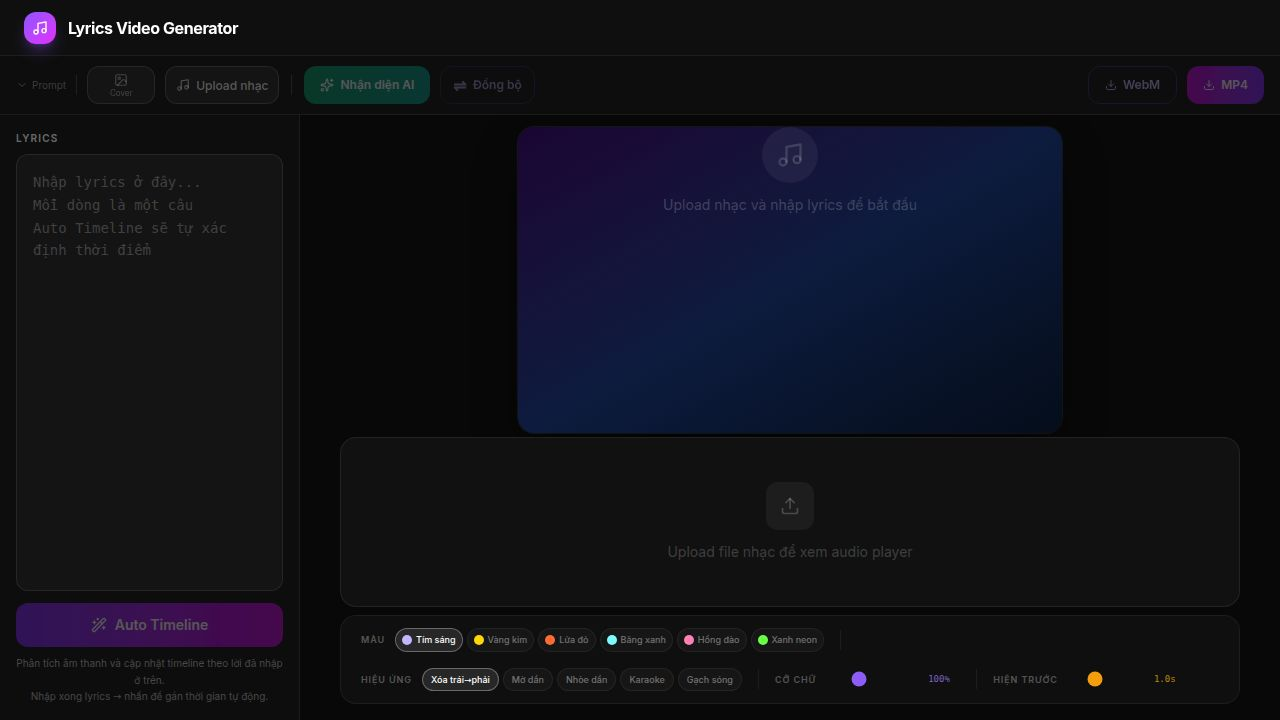
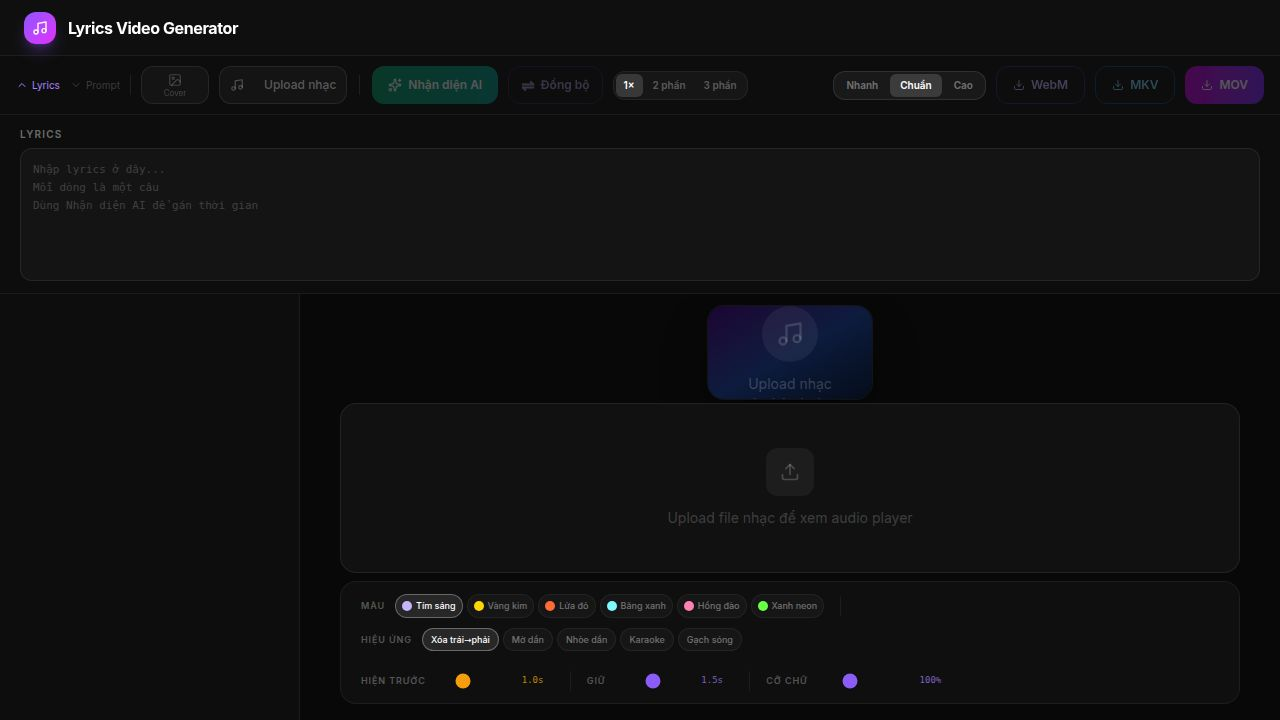
Add ability to save and restore previous versions of the lyrics timeline
Implement a snapshot feature allowing users to save and restore previous versions of the lyrics timeline, storing up to 30 saves in localStorage.

Replit-Commit-Author: Agent
Replit-Commit-Session-Id: 49e4e29f-ddcb-4f3a-98da-e55439d37185
Replit-Commit-Checkpoint-Type: full_checkpoint
Replit-Commit-Event-Id: 996c4b03-00f1-49d7-b436-35f3cccc3191
Replit-Commit-Screenshot-Url: https://storage.googleapis.com/screenshot-production-us-central1/03287a2a-bcca-4c87-b1e8-3f0f71bc8445/49e4e29f-ddcb-4f3a-98da-e55439d37185/I71An1v
Replit-Helium-Checkpoint-Created: true

diff --git a/artifacts/lyrics-video/src/App.tsx b/artifacts/lyrics-video/src/App.tsx
@@ -10,6 +10,14 @@ interface LyricLine {
   isMarker?: boolean;
 }
 
+interface SaveEntry {
+  id: string;
+  label: string;
+  ts: number;
+  lines: LyricLine[];
+  text: string;
+}
+
 function formatTime(s: number) {
   const m = Math.floor(s / 60);
   const sec = Math.floor(s % 60);
@@ -579,6 +587,12 @@ export default function App() {
   const [gapShiftInputs, setGapShiftInputs] = useState<Record<number, string>>({});
   const [shiftFromIdx, setShiftFromIdx] = useState<number | null>(null);
   const [shiftFromInput, setShiftFromInput] = useState("");
+  const [saves, setSaves] = useState<SaveEntry[]>(() => {
+    try { return JSON.parse(localStorage.getItem("lv_saves") ?? "[]") as SaveEntry[]; } catch { return []; }
+  });
+  const [showSaves, setShowSaves] = useState(false);
+  const [editingSaveId, setEditingSaveId] = useState<string | null>(null);
+  const [editingSaveLabel, setEditingSaveLabel] = useState("");
   const [customPrompt, setCustomPrompt] = useState<string>(() =>
     localStorage.getItem("lv_customPrompt") ?? DEFAULT_PROMPT
   );
@@ -1156,6 +1170,51 @@ export default function App() {
     ice:    { fill: "#7DF9FF", glow: "rgba(100,240,255,0.90)" },
     rose:   { fill: "#FF80B5", glow: "rgba(255,80,150,0.90)" },
     green:  { fill: "#69FF47", glow: "rgba(80,255,50,0.90)"  },
+  };
+
+  const persistSaves = (next: SaveEntry[]) => {
+    try { localStorage.setItem("lv_saves", JSON.stringify(next)); } catch { /* quota */ }
+  };
+
+  const handleSaveSnapshot = () => {
+    const now = new Date();
+    const pad = (n: number) => String(n).padStart(2, "0");
+    const label = `${pad(now.getHours())}:${pad(now.getMinutes())} ${pad(now.getDate())}/${pad(now.getMonth() + 1)}`;
+    const entry: SaveEntry = {
+      id: `${Date.now()}-${Math.random().toString(36).slice(2, 7)}`,
+      label,
+      ts: Date.now(),
+      lines: JSON.parse(JSON.stringify(lyricsLines)) as LyricLine[],
+      text: lyricsText,
+    };
+    setSaves((prev) => {
+      const next = [entry, ...prev].slice(0, 30);
+      persistSaves(next);
+      return next;
+    });
+    setShowSaves(true);
+  };
+
+  const handleRestoreSave = (entry: SaveEntry) => {
+    setLyricsLines(entry.lines);
+    setLyricsText(entry.text);
+  };
+
+  const handleDeleteSave = (id: string) => {
+    setSaves((prev) => {
+      const next = prev.filter((s) => s.id !== id);
+      persistSaves(next);
+      return next;
+    });
+  };
+
+  const handleRenameSave = (id: string, newLabel: string) => {
+    setSaves((prev) => {
+      const next = prev.map((s) => s.id === id ? { ...s, label: newLabel } : s);
+      persistSaves(next);
+      return next;
+    });
+    setEditingSaveId(null);
   };
 
   const handleExportTimeline = () => {
@@ -1975,13 +2034,32 @@ export default function App() {
                     Timeline — {lyricsLines.filter(l => !l.isMarker).length} dòng
                   </p>
                   <div className="flex items-center gap-1">
+                    {/* Save snapshot */}
+                    <button
+                      onClick={handleSaveSnapshot}
+                      className="flex items-center gap-1 text-[10px] text-white/30 hover:text-amber-400 transition-colors px-2 py-1 rounded-lg hover:bg-white/[0.04]"
+                      title="Lưu bản snapshot hiện tại để khôi phục sau"
+                    >
+                      <span className="text-[11px] leading-none">💾</span>
+                      <span>Lưu</span>
+                    </button>
+                    {/* Show saves list */}
+                    {saves.length > 0 && (
+                      <button
+                        onClick={() => setShowSaves((v) => !v)}
+                        className={`flex items-center gap-1 text-[10px] transition-colors px-2 py-1 rounded-lg hover:bg-white/[0.04] ${showSaves ? "text-amber-400" : "text-white/30 hover:text-amber-400"}`}
+                        title="Xem danh sách bản lưu"
+                      >
+                        <span className="text-[11px] leading-none">🗂</span>
+                        <span>{saves.length}</span>
+                      </button>
+                    )}
                     {/* Import */}
                     <label
                       className="flex items-center gap-1 text-[10px] text-white/30 hover:text-violet-400 transition-colors cursor-pointer px-2 py-1 rounded-lg hover:bg-white/[0.04]"
                       title="Import timeline từ file .txt"
                     >
                       <Upload className="w-3 h-3" />
-                      <span>Import</span>
                       <input
                         type="file"
                         accept=".txt,text/plain"
@@ -1996,7 +2074,6 @@ export default function App() {
                       title="Export timeline ra file .txt để sửa tay"
                     >
                       <Download className="w-3 h-3" />
-                      <span>Export</span>
                     </button>
                   </div>
                 </div>
@@ -2268,6 +2345,57 @@ export default function App() {
                   <span className="text-emerald-400/50">giây</span> ·{" "}
                   <span className="text-teal-400/50">end</span> nhấn để sửa · ✏ lời · ✂ cắt · <span className="text-blue-400/50">⇕ dời từ đây</span> · 🗑 xoá
                 </p>
+              </div>
+            )}
+
+            {/* ── Saves panel ── */}
+            {showSaves && saves.length > 0 && (
+              <div className="flex flex-col gap-1 shrink-0">
+                <p className="text-[10px] font-semibold tracking-[0.12em] uppercase text-amber-400/50">
+                  Bản lưu ({saves.length})
+                </p>
+                <div className="space-y-0.5 max-h-48 overflow-y-auto rounded-xl border border-amber-500/15 bg-amber-500/[0.03] p-1">
+                  {saves.map((save) => (
+                    <div key={save.id} className="flex items-center gap-1.5 px-2 py-1.5 rounded-lg hover:bg-white/[0.04] group text-[10px]">
+                      {editingSaveId === save.id ? (
+                        <input
+                          autoFocus
+                          value={editingSaveLabel}
+                          onChange={(e) => setEditingSaveLabel(e.target.value)}
+                          onKeyDown={(e) => {
+                            if (e.key === "Enter") handleRenameSave(save.id, editingSaveLabel || save.label);
+                            if (e.key === "Escape") setEditingSaveId(null);
+                          }}
+                          onBlur={() => handleRenameSave(save.id, editingSaveLabel || save.label)}
+                          className="flex-1 bg-white/[0.08] border border-amber-500/30 rounded px-1.5 py-0.5 text-amber-200/80 outline-none min-w-0"
+                        />
+                      ) : (
+                        <button
+                          className="flex-1 text-left text-white/50 hover:text-white/80 truncate transition-colors"
+                          onClick={() => handleRestoreSave(save)}
+                          title="Nhấn để khôi phục bản này"
+                        >
+                          {save.label}
+                          <span className="ml-1.5 text-white/20">{save.lines.filter(l => !l.isMarker).length} dòng</span>
+                        </button>
+                      )}
+                      <button
+                        onClick={() => { setEditingSaveId(save.id); setEditingSaveLabel(save.label); }}
+                        className="opacity-0 group-hover:opacity-100 text-white/25 hover:text-amber-400 transition-all shrink-0"
+                        title="Đổi tên"
+                      >
+                        <Pencil className="w-2.5 h-2.5" />
+                      </button>
+                      <button
+                        onClick={() => handleDeleteSave(save.id)}
+                        className="opacity-0 group-hover:opacity-100 text-white/25 hover:text-red-400 transition-all shrink-0"
+                        title="Xóa bản lưu này"
+                      >
+                        <X className="w-2.5 h-2.5" />
+                      </button>
+                    </div>
+                  ))}
+                </div>
               </div>
             )}
 